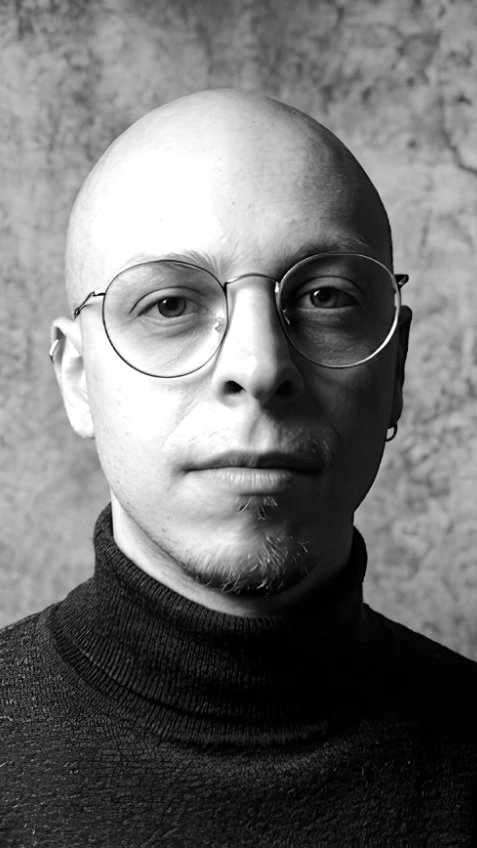
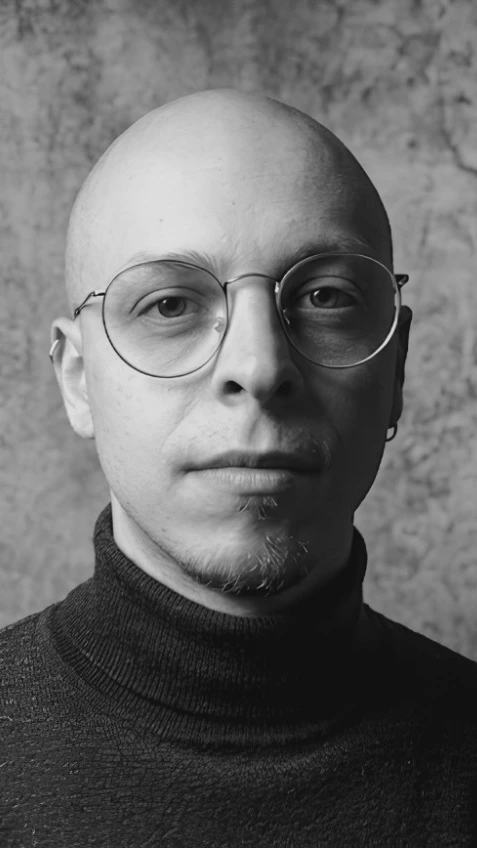
Ammorbidisce il contrasto della foto: niente più effetto "faro in faccia"
La foto sorgente ha già un'illuminazione drammatica (range 0-255 pieno
prima di qualsiasi elaborazione): applicarci sopra autocontrast la
spingeva ulteriormente, creando un effetto spotlight sul viso.
Rimosso autocontrast, sostituito con una riduzione di contrasto
(0.78x) e un leggero aumento di luminosità (1.05x) per ammorbidire le
ombre e le alte luci mantenendo la nitidezza della risoluzione più
alta introdotta in #338.

Claude-Session: https://claude.ai/code/session_01TsQHtMqWTWqH38J3yoYhH8

diff --git a/tests/site-regression.test.js b/tests/site-regression.test.js
@@ -47,8 +47,8 @@ assert(html.includes('data-i18n="skip_to_content"'), 'Skip link must be translat
 assert(!html.includes('data-lang="fr"'), 'French selector must be removed');
 assert(html.includes('class="desktop-nav"'), 'Section navigation must be present');
 assert(html.includes('class="hero-filmstrip"'), 'Hero filmstrip must link to the real sections');
-assert(html.includes('srcset="photo.webp?v=10"'), 'New portrait must be displayed');
-assert(html.includes('srcset="photo-mobile.webp?v=10"'), 'Mobile portrait crop must be displayed');
+assert(html.includes('srcset="photo.webp?v=11"'), 'New portrait must be displayed');
+assert(html.includes('srcset="photo-mobile.webp?v=11"'), 'Mobile portrait crop must be displayed');
 assert(!html.includes('id="c1Details"'), 'RAG detail reader must be removed');
 assert(!html.includes('rag_step1_title'), 'RAG diagram must be removed');
 assert(!html.includes('id="c2Details"'), 'Local AI detail reader must be removed');

diff --git a/index.html b/index.html
@@ -112,9 +112,9 @@
     </div>
     <div class="hero-photo-frame">
       <picture>
-        <source media="(max-width:700px)" srcset="photo-mobile.webp?v=10" type="image/webp">
-        <source srcset="photo.webp?v=10" type="image/webp">
-        <img class="hero-portrait" id="avatarPhoto" src="photo.webp?v=10" alt="Nicolò Forcolin" width="2000" height="848" fetchpriority="high">
+        <source media="(max-width:700px)" srcset="photo-mobile.webp?v=11" type="image/webp">
+        <source srcset="photo.webp?v=11" type="image/webp">
+        <img class="hero-portrait" id="avatarPhoto" src="photo.webp?v=11" alt="Nicolò Forcolin" width="2000" height="848" fetchpriority="high">
       </picture>
     </div>
     <div class="hero-timeline" aria-hidden="true">
